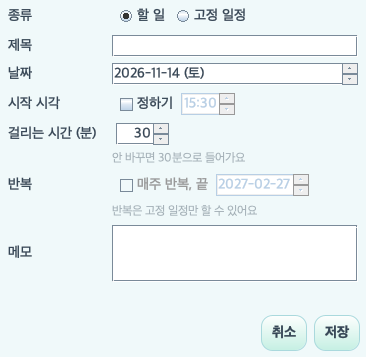
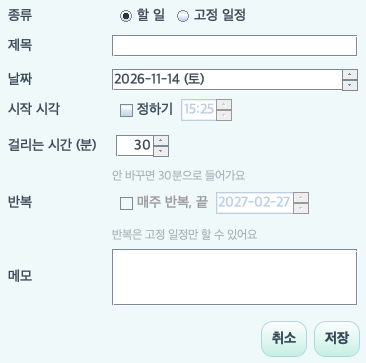
fix(prototype): 입력 창이 오류를 모두 칸 아래에 보이고 반복 안내는 할 일일 때만 보임 (#71)

diff --git a/prototype/src/planningpet/proto/TaskForm.java b/prototype/src/planningpet/proto/TaskForm.java
@@ -6,7 +6,6 @@ import java.awt.GridBagLayout;
 import java.awt.Insets;
 import java.time.LocalDate;
 import java.time.LocalTime;
-import java.util.stream.IntStream;
 import javax.swing.*;
 
 /** 일정 입력 창의 칸들(05 일정 입력 창, 06의 2번 검사). 창 없이도 만들 수 있다. */
@@ -17,13 +16,14 @@ public final class TaskForm {
     final JTextField title = new JTextField(22);
     final JSpinner date = new JSpinner(new SpinnerDateModel());
     final JCheckBox timed = new JCheckBox("정하기");
-    final JSpinner start = new JSpinner(new SpinnerListModel(IntStream.range(0, 144)
-            .mapToObj(i -> String.format("%02d:%02d", i / 6, i % 6 * 10)).toList()));
-    final JSpinner minutes = new JSpinner(new SpinnerNumberModel(30, 10, 720, 10));
+    final JSpinner start = new JSpinner(new SpinnerListModel(Ui.times()));
+    final JSpinner minutes = Ui.minutes(30);
     final JCheckBox repeat = new JCheckBox("매주 반복, 끝");
     final JSpinner repeatEnd = new JSpinner(new SpinnerDateModel());
     final JTextArea memo = new JTextArea(3, 22);
-    final JLabel error = new JLabel(" ");
+    /** 칸 아래 빨간 오류 글(05). 칸 순서다. */
+    final java.util.Map<String, JLabel> errors = new java.util.LinkedHashMap<>();
+    private final JLabel repeatHint = Ui.hint("반복은 고정 일정만 할 수 있어요");
     final JLabel endLabel = new JLabel();
     private final boolean editing;
     private int row;
@@ -38,17 +38,26 @@ public final class TaskForm {
         date.setEditor(new JSpinner.DateEditor(date, "yyyy-MM-dd (E)"));
         repeatEnd.setEditor(new JSpinner.DateEditor(repeatEnd, "yyyy-MM-dd"));
         start.setValue(TimeEditor.defaultStart(defaultDate, now).toString());
-        error.setForeground(Theme.SUNDAY);
+        for (String k : new String[] {"제목", "시작 시각", "걸리는 시간", "메모", "반복"}) {
+            JLabel l = new JLabel();
+            l.setForeground(Theme.SUNDAY);
+            l.setVisible(false);
+            errors.put(k, l);
+        }
         line("종류", Ui.flow(task, fixed));
         line("제목", title);
+        line("", errors.get("제목"));
         line("날짜", date);
         line("시작 시각", Ui.flow(timed, start));
+        line("", errors.get("시작 시각"));
         line("걸리는 시간 (분)", Ui.flow(minutes, endLabel));
+        line("", errors.get("걸리는 시간"));
         line("", Ui.hint("안 바꾸면 30분으로 들어가요"));
         line("반복", Ui.flow(repeat, repeatEnd));
-        line("", Ui.hint("반복은 고정 일정만 할 수 있어요"));
+        line("", errors.get("반복"));
+        line("", repeatHint);
         line("메모", new JScrollPane(memo));
-        line("", error);
+        line("", errors.get("메모"));
         title.setText(t == null ? "" : t.title);
         Ui.setDate(date, t == null ? defaultDate : t.date);
         Ui.setDate(repeatEnd, (t == null ? defaultDate : t.date).plusWeeks(15));
@@ -89,9 +98,27 @@ public final class TaskForm {
         }
         repeat.setEnabled(isFixed && !editing);
         repeatEnd.setEnabled(repeat.isSelected());
+        repeatHint.setVisible(!isFixed);
         LocalTime s = startTime();
         int end = s == null ? 0 : s.getHour() * 60 + s.getMinute() + (int) minutes.getValue();
         endLabel.setText(s == null ? "" : String.format("끝 %02d:%02d", end / 60, end % 60));
+    }
+
+    /** 검사 결과를 칸 아래에 보인다. 고친 칸의 오류는 지운다. */
+    void showErrors(java.util.List<String[]> problems) {
+        errors.values().forEach(l -> {
+            l.setText("");
+            l.setVisible(false);
+        });
+        for (String[] p : problems) {
+            errors.get(p[0]).setText(p[1]);
+            errors.get(p[0]).setVisible(true);
+        }
+    }
+
+    /** 보이는 오류 글을 칸 순서대로 " / "로 잇는다. */
+    String errorText() {
+        return String.join(" / ", errors.values().stream().filter(JLabel::isVisible).map(JLabel::getText).toList());
     }
 
     LocalTime startTime() {

diff --git a/prototype/src/planningpet/proto/TaskCheck.java b/prototype/src/planningpet/proto/TaskCheck.java
@@ -3,40 +3,42 @@ package planningpet.proto;
 import java.time.LocalDate;
 import java.time.LocalTime;
 import java.time.temporal.ChronoUnit;
+import java.util.ArrayList;
+import java.util.List;
 
 /** 일정 입력 창의 저장 전 검사. */
 public final class TaskCheck {
     private TaskCheck() {
     }
 
-    /** 06의 2번 검사 가운데 화면에서 걸릴 수 있는 것. 통과하면 null. */
-    public static String check(TaskForm f) {
+    /** 06의 2번 검사 가운데 화면에서 걸릴 수 있는 것. 칸 순서로 {칸, 문장}을 모두 담는다. 비어 있으면 통과. */
+    public static List<String[]> check(TaskForm f) {
+        List<String[]> out = new ArrayList<>();
         if (f.title.getText().isBlank()) {
-            return "제목을 써 주세요";
-        }
-        if (f.title.getText().strip().length() > 100) {
-            return "제목은 100자까지예요";
-        }
-        if ((int) f.minutes.getValue() % 10 != 0) {
-            return "10분부터 720분까지, 10분 단위예요";
-        }
-        if (f.memo.getText().length() > 1000) {
-            return "메모는 1000자까지예요";
+            out.add(new String[] {"제목", "제목을 써 주세요"});
+        } else if (f.title.getText().strip().length() > 100) {
+            out.add(new String[] {"제목", "제목은 100자까지예요"});
         }
         LocalTime start = f.startTime();
-        if (start != null && start.getHour() * 60 + start.getMinute() + (int) f.minutes.getValue() > 24 * 60) {
-            return "하루 안에 끝나야 해요";
+        int minutes = (int) f.minutes.getValue();
+        if (start != null && start.getHour() * 60 + start.getMinute() + minutes > 24 * 60) {
+            out.add(new String[] {"시작 시각", "하루 안에 끝나야 해요"});
+        }
+        if (minutes % 5 != 0) {
+            out.add(new String[] {"걸리는 시간", "10분부터 720분까지, 5분 단위예요"});
+        }
+        if (f.memo.getText().length() > 1000) {
+            out.add(new String[] {"메모", "메모는 1000자까지예요"});
         }
         if (f.repeat.isSelected()) {
             LocalDate from = Ui.dateOf(f.date);
             LocalDate to = Ui.dateOf(f.repeatEnd);
             if (to.isBefore(from)) {
-                return "끝 날짜가 시작 날짜보다 앞이에요";
-            }
-            if (ChronoUnit.WEEKS.between(from, to) >= 26) {
-                return "반복은 26번까지예요";
+                out.add(new String[] {"반복", "끝 날짜가 시작 날짜보다 앞이에요"});
+            } else if (ChronoUnit.WEEKS.between(from, to) >= 26) {
+                out.add(new String[] {"반복", "반복은 26번까지예요"});
             }
         }
-        return null;
+        return out;
     }
 }

diff --git a/prototype/src/planningpet/proto/TaskDialog.java b/prototype/src/planningpet/proto/TaskDialog.java
@@ -62,14 +62,16 @@ public final class TaskDialog {
     private static void save(App app, TaskForm f, Task editing, JDialog d) {
         if (trySave(app, f, editing)) {
             d.dispose();
+        } else {
+            d.pack();
         }
     }
 
-    /** 저장 버튼과 같다. 검사를 통과하면 저장하고 true, 아니면 창 아래 문장을 채우고 false. */
+    /** 저장 버튼과 같다. 검사를 통과하면 저장하고 true, 아니면 칸 아래에 오류를 모두 보이고 false. */
     static boolean trySave(App app, TaskForm f, Task editing) {
-        String problem = TaskCheck.check(f);
-        if (problem != null) {
-            f.error.setText(problem);
+        var problems = TaskCheck.check(f);
+        f.showErrors(problems);
+        if (!problems.isEmpty()) {
             return false;
         }
         String title = f.title.getText().strip();
